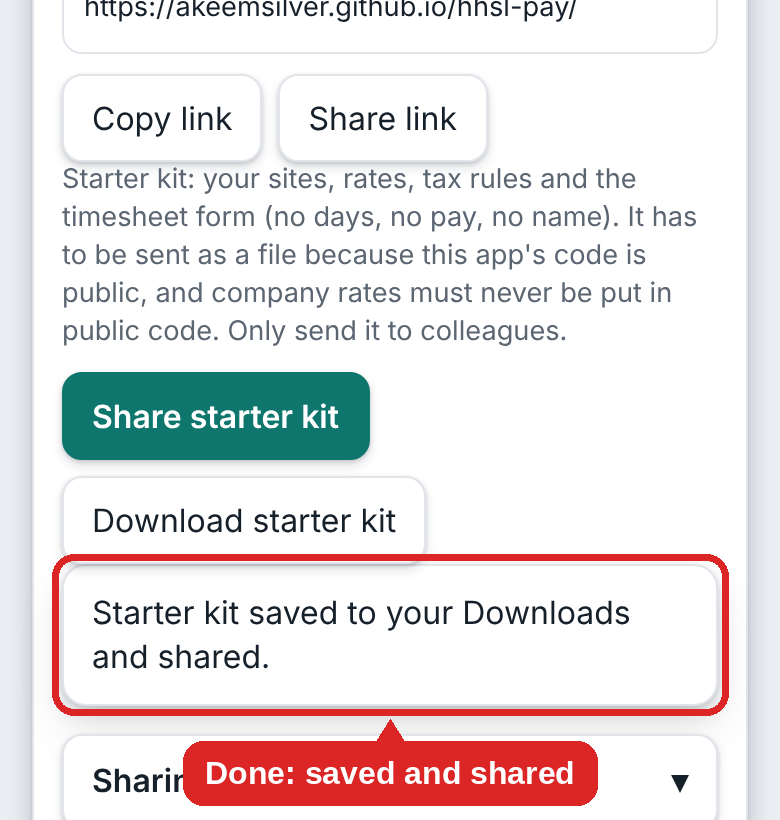
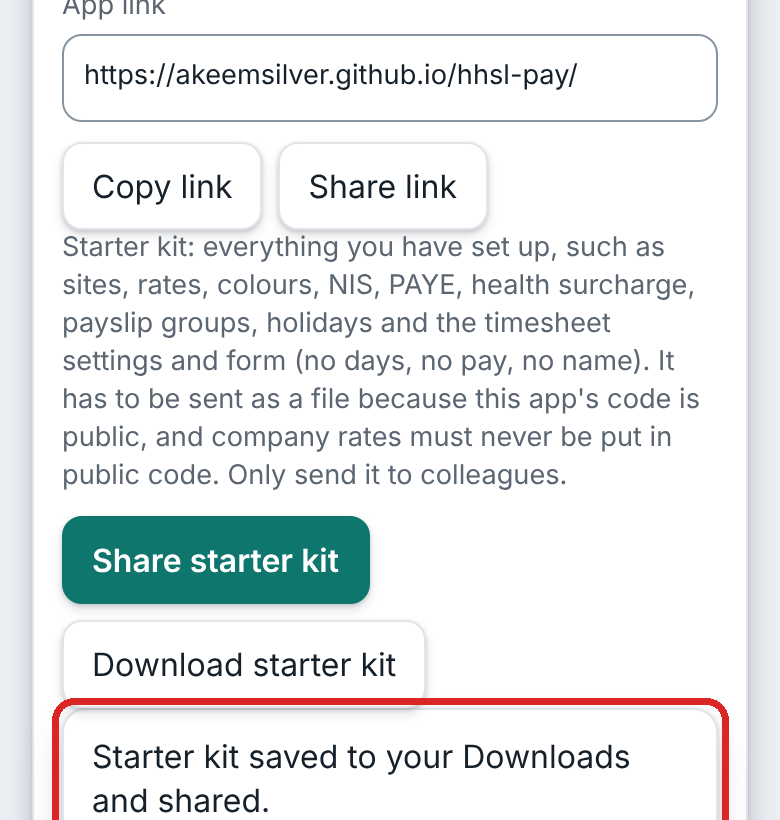
Settings: Install on your phone hidden once the app is installed; Share this app is a folded card (More... unfolds it); guide pictures and text updated
Claude-Session: https://claude.ai/code/session_015B217MJCLoYGM2HCZFLF5v

diff --git a/src/screens/SettingsHub.tsx b/src/screens/SettingsHub.tsx
@@ -9,6 +9,7 @@ import { ConfirmDialog } from "../components/ConfirmDialog";
 import { newData, isCombined, userNameOf } from "../model";
 import { OtherJobsPayer, TaxSegment } from "../components/TaxMode";
 import { localDMY, todayISO } from "../format";
+import { isInstalledApp } from "../install";
 import { useStore } from "../store";
 import { useTheme, type ThemePref } from "../theme";
 import { PageHeader } from "../components/TopBar";
@@ -102,13 +103,21 @@ export function SettingsHub() {
     <>
       <PageHeader title="Settings" />
 
-      <h2 className="section-title">Install on your phone</h2>
-      <section className="card">
-        <InstallHelp />
-      </section>
+      {!isInstalledApp() && (
+        <>
+          <h2 className="section-title">Install on your phone</h2>
+          <section className="card">
+            <InstallHelp />
+          </section>
+        </>
+      )}
 
-      <h2 className="section-title">Share this app</h2>
-      <section className="card share-app">
+      {/* Folded up so it does not take the top of Settings; More... unfolds the link, starter kit and guide. */}
+      <details className="card share-app">
+        <summary>
+          <span className="sa-title"><strong>Share this app</strong><small>App link, starter kit and guide</small></span>
+          <span className="sa-more" aria-hidden="true" />
+        </summary>
         <p className="muted small">To give a colleague the app: send them the link, then send the starter kit file with your pay rates. On their first start the app asks for that file.</p>
         <label>App link
           <input readOnly aria-label="App link" value={link} onFocus={(e) => e.currentTarget.select()} />
@@ -130,7 +139,7 @@ export function SettingsHub() {
         {guideMessage && <p className="notice" role="status">{guideMessage}</p>}
         {sitesCount === 0 && <p className="muted small">Add your sites first, then the starter kit is ready to share.</p>}
         <ShareGuide link={link} />
-      </section>
+      </details>
 
       <h2 className="section-title">Your name</h2>
       <section className="card">

diff --git a/src/styles.css b/src/styles.css
@@ -950,3 +950,12 @@ button.close-site { justify-content: center; text-align: center; color: var(--ac
 .confirm .row.one { grid-template-columns: 1fr; }
 
 .site-btn { border: 1.5px solid var(--field-edge); }
+
+.share-app > summary { list-style: none; display: flex; align-items: center; justify-content: space-between; gap: 10px; min-height: 52px; cursor: pointer; }
+.share-app > summary::-webkit-details-marker { display: none; }
+.share-app .sa-title { display: grid; gap: 1px; }
+.share-app .sa-title small { color: var(--muted); font-size: 0.82rem; }
+.share-app .sa-more { color: var(--accent); font-weight: 600; font-size: 0.9rem; white-space: nowrap; }
+.share-app .sa-more::after { content: "More… ▾"; }
+.share-app[open] .sa-more::after { content: "Less ▴"; }
+.share-app[open] > summary { padding-bottom: 8px; margin-bottom: 8px; border-bottom: 1px solid var(--edge); }

diff --git a/guide/build_guide.py b/guide/build_guide.py
@@ -218,7 +218,7 @@ s.append(steps([
 s.append(Paragraph('<a name="p7"/>Part 7. Share the app with someone else', h1))
 s.append(Paragraph("To give a colleague the app you send them <b>three things</b> on WhatsApp: <b>1. the app link</b>, <b>2. the starter kit file</b> and <b>3. this guide</b>. All three buttons are in one place in the app, and you do it all from your phone.", ParagraphStyle("kw", parent=body, keepWithNext=1)))
 s.append(steps([
- ("Open <b>Settings</b> (the gear) and scroll to <b>Share this app</b>. The three buttons are here.", A("a-share"), 50),
+ ("Open <b>Settings</b> (the gear) and find <b>Share this app</b>. Tap it (or <b>More…</b>) to unfold it: the three buttons are inside. (The <b>Install on your phone</b> help at the top of Settings is hidden once the app is installed.)", A("a-share"), 50),
  ("<b>Send the link.</b> Tap <b>Share link</b>, pick <b>WhatsApp</b> and the person.", None),
  ("<b>Send the starter kit.</b> Tap <b>Share starter kit</b>, then <b>Yes, download and share</b>. The time is added to the saved file's name so it never clashes with an earlier copy.", Bs("b-share-ask"), 50),
  ("The share menu opens. Pick <b>WhatsApp</b> (or Gmail) and the same person, and send the file.", Bs("b-share-after"), 50),
